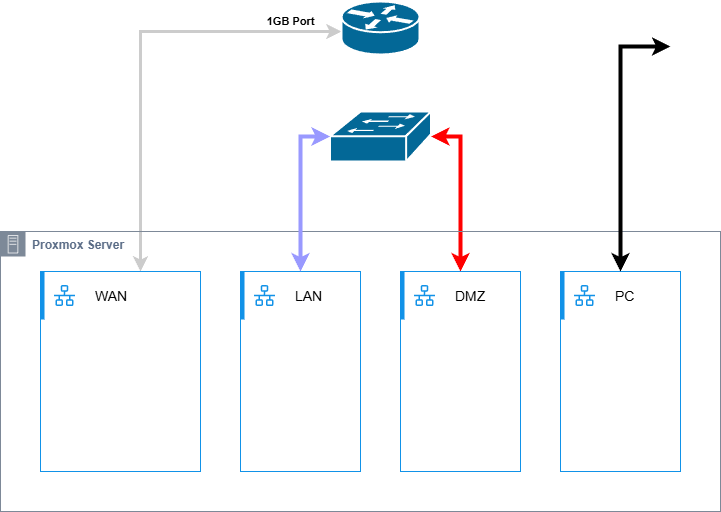
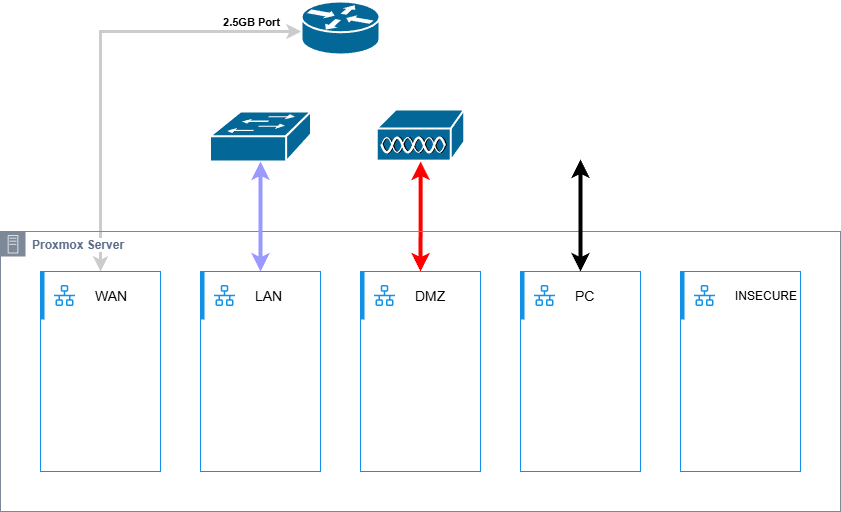
docs: update network mapping setup

diff --git a/README.md b/README.md
@@ -21,12 +21,13 @@
 * Primary Switch: TP-Link Unmanaged 8-Port 2.5G (TL-SG108-M2)
 
 ### 🌐 Logical Network Mapping
-|Physical Port|Interface (OS)|Color |Assignment        |Destination      |
-|-------------|--------------|------|------------------|-----------------|
-|Port 1       |enp4s0        |Blue  |WAN / Proxmox MGMT|ISP Router (1G)  |
-|Port 2       |enp5s0        |Yellow|LAN (High Speed)  |2.5G Switch      |
-|Port 3       |enp6s0        |Red   |DMZ / Guest       |2.5G Switch      |
-|Port 4       |enp7s0        |Black |Direct Link / PC  |Workstation PC   |
+| Physical Port | Interface (OS) | Color | Assignment         | Destination       |
+|---------------|----------------|-------|--------------------|-------------------|
+| Port 1        | enp4s0         | White | WAN / Proxmox MGMT | ISP Router (2.5G) |
+| Port 2        | enp5s0         | Blue  | LAN (High Speed)   | 1G Switch         |
+| Port 3        | enp6s0         | Red   | Wifi Access Point  | Access Point      |
+| Port 4        | enp7s0         | Black | Direct Link / PC   | Workstation PC    |
+| N/A           | Virtual        | N/A   | Insecure           | Internal Only     |
 
 ### 🛠️ Software Stack
 * Hypervisor: Proxmox VE (Debian-based)